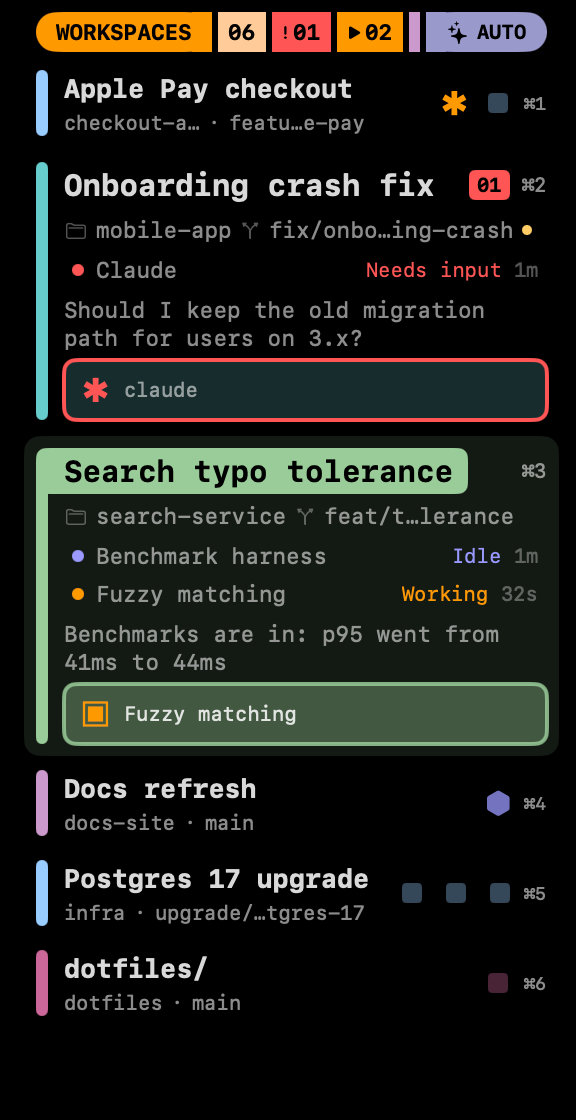
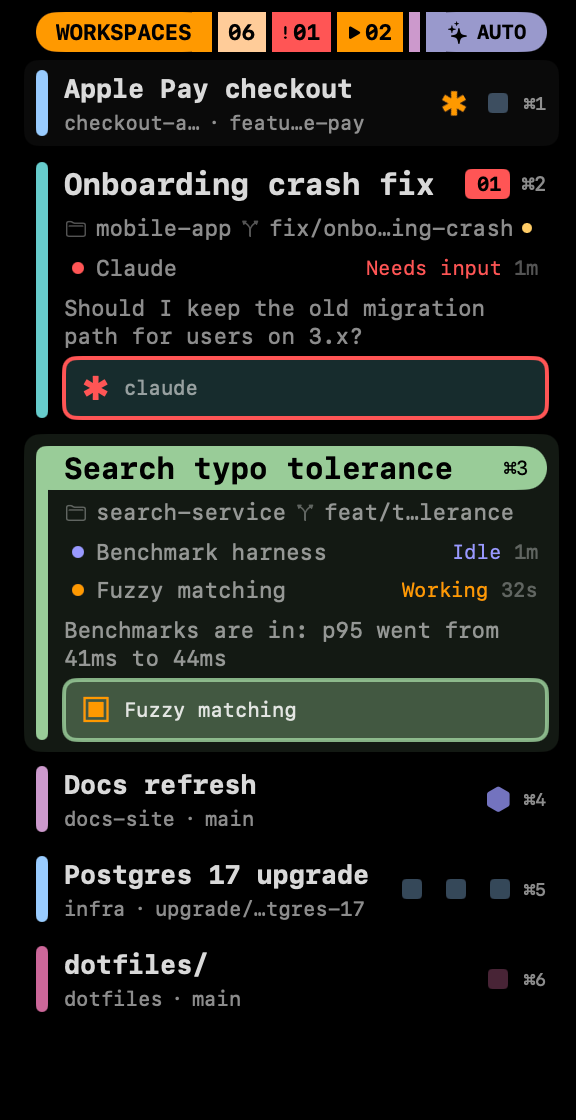
Run the selected workspace's title bar across the card
The elbow now spans the full width of the card, with a pill end at the right,
and carries the pin, unread count and ⌘ hint. On compact rows it runs up to
the agent marks. README screenshots regenerated.

diff --git a/lcars.js b/lcars.js
@@ -437,29 +437,53 @@ function unreadBlock(w, size) {
 }
 
 // ⌘1–⌘9 select the first nine workspaces; show which is which.
-function shortcutHint(w, size) {
+function shortcutHint(w, size, color = "secondary") {
   const i = () => w()?.index ?? 9;
   return Text(() => (i() < 9 ? "⌘" + (i() + 1) : ""))
-    .font(size).monospaced().color("secondary")
+    .font(size).monospaced().color(color)
     .lineLimit(1).fixedSize().layoutPriority(2);
 }
 
 
-// The workspace name, laid over the top of the stripe. When selected the
-// stripe turns right behind it, an LCARS elbow, with the name in black (or
-// white on a dark colour); the lettering stays in line with the rows below
-// either way.
-function elbowTitle(w, size, pad) {
+// The workspace's title bar, laid over the top of the stripe: its name, then
+// `trailing` (pin, unread, ⌘ hint) at the far end. When selected the stripe
+// turns right behind it and runs the full width, an LCARS elbow, with
+// everything in black (or white on a dark colour) and a pill end at the
+// right. The lettering stays in line with the rows below either way.
+//
+// The bar is a pill, `height` tall, with a small rounded block laid over its
+// left end so the elbow's outer corner keeps ELBOW_RADIUS. An invisible strut
+// sets the height, as in barBlock, and the text has no padding of its own, so
+// the bar is exactly `height` and the block matches it.
+function titleBar(w, size, height, trailing) {
   const selected = () => !!w()?.selected;
-  return Text(() => workspaceTitle(w()))
-    .font(size).weight("bold").monospaced()
-    .lineLimit(1).truncation("tail").marquee()
-    .color(() => (selected() ? inkOn(accent(w())) : tint(WHITE, ALPHA.strong)))
-    .paddingLeading(ELBOW_INSET)
-    .paddingTrailing(() => (selected() ? 7 : 0))
-    .paddingVertical(pad)
-    .background(() => (selected() ? accent(w()) : null))
-    .cornerRadius(ELBOW_RADIUS);
+  const fill = () => (selected() ? accent(w()) : "clear");
+  const cap = height / 2;
+  const corner = RoundedRectangle({ cornerRadius: ELBOW_RADIUS })
+    .fill(fill)
+    .frame({ width: 3 * cap, height });
+  const pill = HStack({ spacing: 0 }, [
+    Rectangle().fill("clear").frame({ width: 0, height }),
+    Text(() => workspaceTitle(w()))
+      .font(size).weight("bold").monospaced()
+      .lineLimit(1).truncation("tail").marquee()
+      .color(() => (selected() ? inkOn(accent(w())) : tint(WHITE, ALPHA.strong))),
+    Spacer({ minLength: 0 }),
+    ...trailing,
+  ])
+    .paddingLeading(ELBOW_INSET - cap)
+    .paddingTrailing(() => (selected() ? cap - 2 : 0))
+    .frame({ maxWidth: "infinity" })
+    .background(fill)
+    .cornerRadius(cap);
+  // The block reaches past the pill's round end, so its own rounded right
+  // corners sit under the pill's straight edge and leave no notch.
+  return HStack({ spacing: -2 * cap }, [corner, pill]);
+}
+
+// Ink for the pin and ⌘ hint: on the bar when selected, `rest` otherwise.
+function barInk(w, rest) {
+  return () => (w()?.selected ? inkOn(accent(w())) : rest);
 }
 
 
@@ -496,14 +520,12 @@ function card(w) {
 
   const body = VStack({ spacing: 4 }, [
     // Title row: name, then pin / unread badge.
-    HStack({ spacing: 6 }, [
-      elbowTitle(w, 15, 2),
-      Spacer({ minLength: 0 }),
+    titleBar(w, 15, 22, [
       when(() => (w()?.pinned ? "pin" : ""), "pin", () =>
-        Image("pin.fill").font(9).color("tertiary")
+        Image("pin.fill").font(9).color(barInk(w, "tertiary")).paddingLeading(6)
       ),
-      unreadBlock(w, 10),
-      shortcutHint(w, 10),
+      unreadBlock(w, 10).paddingLeading(() => ((w()?.unread ?? 0) > 0 ? 6 : 0)),
+      shortcutHint(w, 10, barInk(w, "secondary")).paddingLeading(6),
     ]),
     VStack({ spacing: 4 }, [
       // Folder and branch.
@@ -686,11 +708,9 @@ function compactCard(w) {
       VStack({ spacing: 2 }, [
         // Pin and unread take no room, gaps included, until they show, so the
         // name keeps the width.
-        HStack({ spacing: 0 }, [
-          elbowTitle(w, 13, 1),
-          Spacer({ minLength: 0 }),
+        titleBar(w, 13, 18, [
           when(() => (w()?.pinned ? "pin" : ""), "pin", () =>
-            Image("pin.fill").font(8).color("tertiary").paddingLeading(5)
+            Image("pin.fill").font(8).color(barInk(w, "tertiary")).paddingLeading(5)
           ),
           unreadBlock(w, 9).paddingLeading(() => ((w()?.unread ?? 0) > 0 ? 5 : 0)),
         ]),

diff --git a/README.md b/README.md
@@ -42,6 +42,8 @@ periwinkle and gold are kept for status:
 
 - **Name**, with a pin icon when pinned and a red unread-count readout. A
   workspace still named after its path shows as its folder, like `orders/`.
+  On the selected workspace the colour bar turns across the top of the card,
+  an LCARS elbow, with the name, pin, unread count and ⌘ number on it.
 - **Folder and branch**, the branch in grey, with a gold dot when
   the working tree has uncommitted changes.
 - **Agent status**: every live agent session gets its own row, even when
